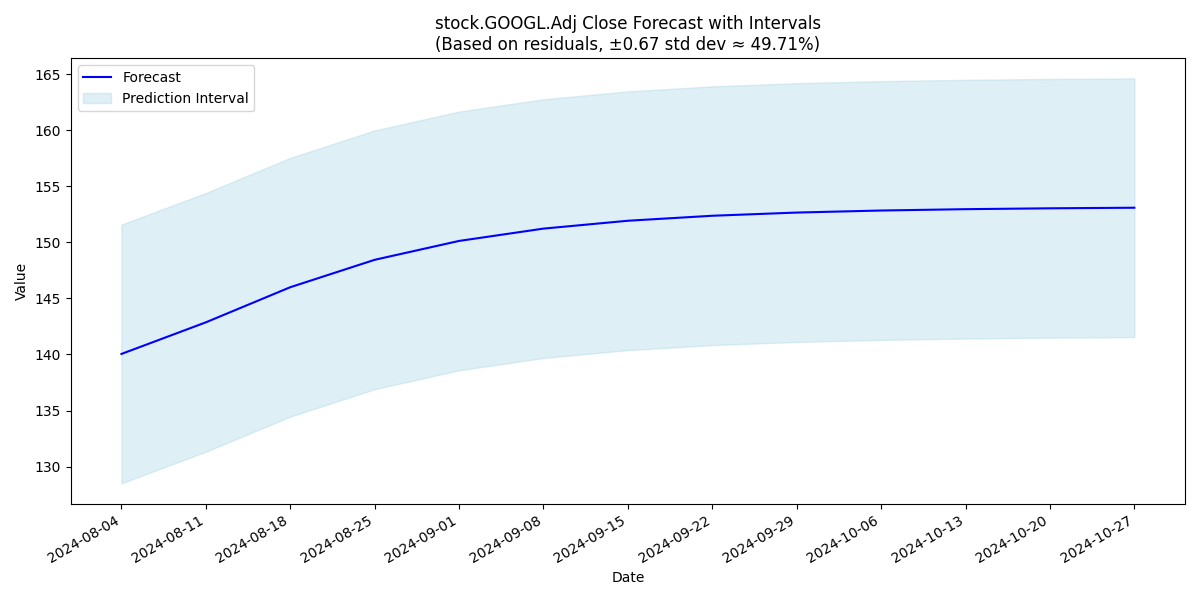
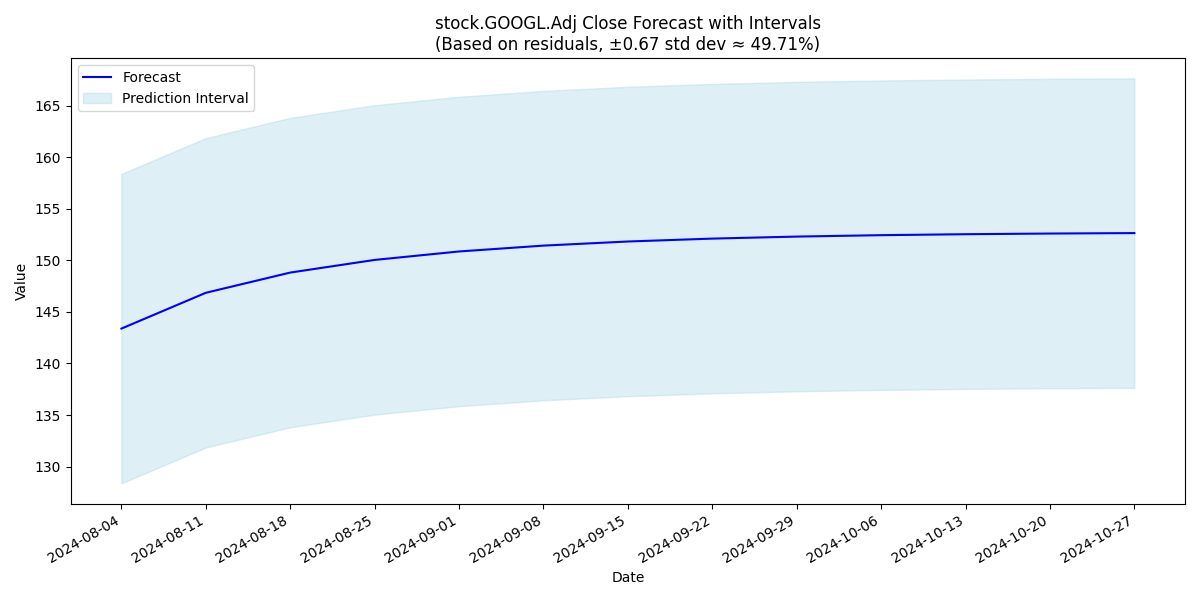
added quarterly and day feature to testing

diff --git a/main.py b/main.py
@@ -41,6 +41,12 @@ for indicator in indicators:
 # Combine stock and indicator data
 combined_df = pd.concat([pivot_stock_df, pivot_indicator_df], axis=1)
 combined_df.dropna(inplace=True)
+# Create binary flags for Q1, Q2, Q3, and Q4 directly using index month
+combined_df[('date_', 'quarter', 'Q1')] = combined_df.index.to_series().apply(lambda x: 1 if x.month in [1, 2, 3] else 0)
+combined_df[('date_', 'quarter', 'Q2')] = combined_df.index.to_series().apply(lambda x: 1 if x.month in [4, 5, 6] else 0)
+combined_df[('date_', 'quarter', 'Q3')] = combined_df.index.to_series().apply(lambda x: 1 if x.month in [7, 8, 9] else 0)
+combined_df[('date_', 'quarter', 'Q4')] = combined_df.index.to_series().apply(lambda x: 1 if x.month in [10, 11, 12] else 0)
+
 
 # Run the study
 study = optuna.create_study(direction="minimize")

diff --git a/constants.py b/constants.py
@@ -34,7 +34,11 @@ features = [
     'fred.T10Y3M.value-2',
     'fred.T10Y3M.value-91',
     'fred.EFFR.value-2',
-    'fred.EFFR.value-91'
+    'fred.EFFR.value-91',
+    'date.quarter.Q1',
+    'date.quarter.Q2',
+    'date.quarter.Q3',
+    'date.quarter.Q4'
 ]
 
 # Define indicators
